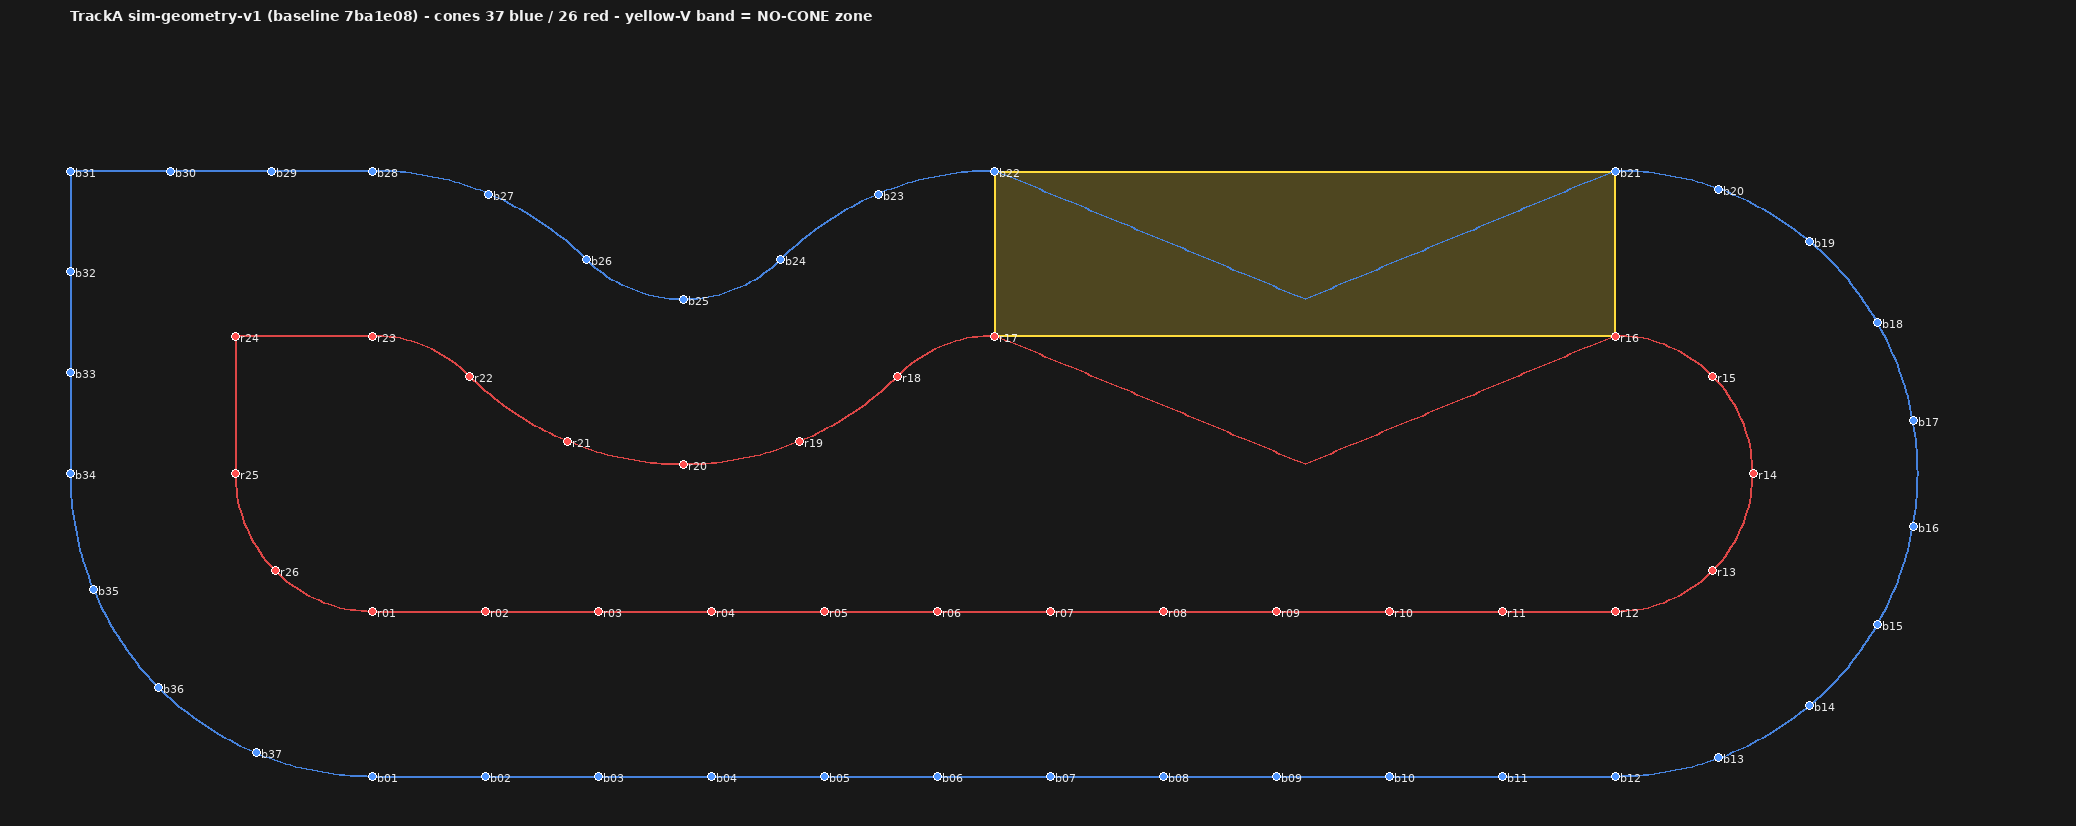
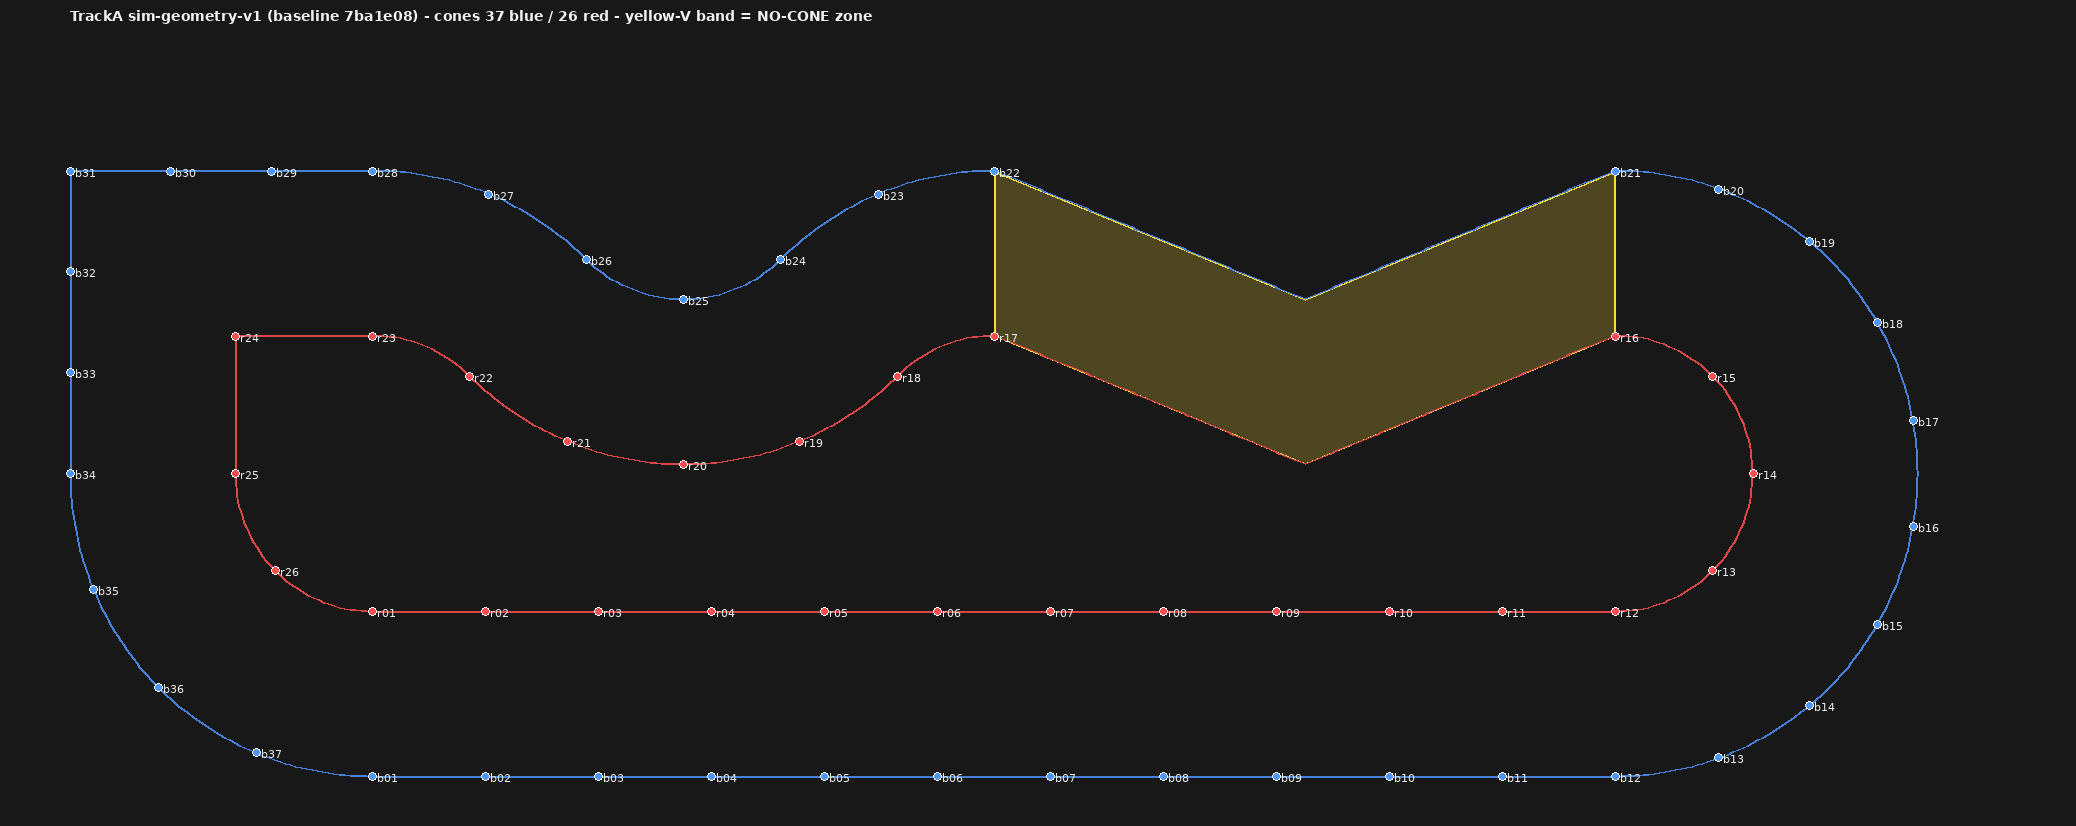
track: 黄V polygon 六点化+负例定向断言(外部AI审查两处修正)
1. polygon 修正(YAML+俯视图两处输出):
   - 首版误写四肩点矩形,漏两谷点;现按六点闭合带:
     外左肩→外谷→外右肩→内右肩→内谷→内左肩
   - 不重新拟合几何,坐标仍出自冻结基线(beefd6d)
2. 检查器新增 5b "yellow-V polygon matches arms":
   - 点数=6;与 shoulders/valley 字段 1e-6 对账;
     外/内三点各贴重建的 E3∪E4 / I3∪I4 臂线(≤0.02m)
   - 三重自证:四点矩形被抓;仅 polygon 错 0.1m 双判据命中;
     polygon+字段+E3 全同错由环自检接缝兜底抓出
3. 负例从"总失败数>0"改定向断言:
   - N1 须 "yellow-V no-cone zone clean" FAIL(几何判据 inside V-band)
   - N2 须 "no duplicate positions" FAIL
   - Rep 增加 failed_names;run_checks 返回 (fails, failed_names)
4. 复跑全链路:63锥不变,正常检查 FAIL=0,两负例 CAUGHT,exit 0

Changed region(s): [[0.4933, 0.1816, 0.7707, 0.3632], [0.4624, 0.3935, 0.7707, 0.5751]]

diff --git a/tools/trackA/check_trackA.py b/tools/trackA/check_trackA.py
@@ -15,6 +15,9 @@
      (锥确在其声明段上,≤ 0.02 m)
   5. 禁放区(黄V):segment ∈ {E3,E4,I3,I4} → FAIL;锥落在黄V臂线上
      (非四肩点)→ FAIL;锥位于黄V带内部(两臂之间,离臂 > 0.03 m)→ FAIL
+  5b. 黄V polygon:必须六点(外左肩→外谷→外右肩→内右肩→内谷→内左肩),
+     与 shoulders/valley 字段 1e-6 对账,外/内三点各贴重建的 E3∪E4/I3∪I4
+     臂线(≤0.02 m)——防四点矩形漏谷点(首版 bug)及字段系统性同错
   6. 肩点归属:四肩点各有一锥且 segment 归属相邻圆弧段(YAML shoulders 表)
   7. YAML-CSV 一致性(数量/id/坐标 1e-6/颜色/segment 全对账)
   8. 几何环自检(从 YAML 重建):20 接缝 gap(含环回绕)、有向切角(>170°
@@ -23,10 +26,10 @@
   9. 间距统计:同色相邻锥(文件序=环序,黄V断口对单独列出)实际间距
      min/max/mean;<0.3 或 >2.0 视为异常 FAIL
 
---negtest:两个针对性负例,必须都被抓住:
-  N1 黄V中段插一个锥(谷中点,segment 标 E3)→ 应 FAIL
-  N2 复制一个已有锥的坐标(新 id)→ 应 FAIL
-任何 FAIL 非零退出;负例未被抓住也非零退出。
+--negtest:两个针对性负例,定向断言对应检查项失败(仅总数>0不算抓住):
+  N1 黄V中段插一个锥(谷中点,segment 标 E2)→ "yellow-V no-cone zone clean" 须 FAIL
+  N2 复制一个已有锥的坐标(新 id)→ "no duplicate positions" 须 FAIL
+任何 FAIL 非零退出;负例未被抓住或抓错了检查项也非零退出。
 """
 import argparse
 import csv
@@ -47,10 +50,12 @@ BAND_MARGIN = 0.03 # 带内判定离臂余量
 class Rep:
     def __init__(self):
         self.fails = 0
+        self.failed_names = set()   # 失败检查项名集合(负例定向断言用)
     def add(self, name, ok, detail=""):
         tag = "OK  " if ok else "FAIL"
         if not ok:
             self.fails += 1
+            self.failed_names.add(name)
         print("  [%s] %-34s %s" % (tag, name, detail))
         return ok
 
@@ -252,6 +257,37 @@ def run_checks(csv_path, yaml_path, label=""):
                 zone_bad.append("%s inside V-band (%.3f,%.3f)" % (c["id"], p[0], p[1]))
     rep.add("yellow-V no-cone zone clean", not zone_bad, "; ".join(zone_bad[:4]))
 
+    # 5b 黄V polygon 与四条臂一致(首版四点矩形漏谷点 bug 的回归检查)
+    # 六点序:外左肩→外谷→外右肩→内右肩→内谷→内左肩(闭合)。
+    # 三重判据:点数=6;与 shoulders/valley 字段 1e-6 对账(字段间自洽);
+    # 外/内三点各自贴从 boundaries 独立重建的 E3∪E4 / I3∪I4 臂线(≤TOL_ON,
+    # 抓"polygon 与 shoulders 一起错"的系统性偏移——字段对账抓不住这种情况)
+    print("-- 5b) yellow-V polygon 六点与四条臂/肩谷字段一致")
+    poly_bad = []
+    poly = band.get("polygon") or []
+    if len(poly) != 6:
+        poly_bad.append("polygon has %d pts, expect 6 "
+                        "(外左肩→外谷→外右肩→内右肩→内谷→内左肩)" % len(poly))
+    else:
+        pts6 = [tuple(p) for p in poly]
+        for nm, got, ref in (("外左肩=E5肩", pts6[0], shs.get("E5")),
+                             ("外谷=valley_outer", pts6[1], vo),
+                             ("外右肩=E2肩", pts6[2], shs.get("E2")),
+                             ("内右肩=I2肩", pts6[3], shs.get("I2")),
+                             ("内谷=valley_inner", pts6[4], vi),
+                             ("内左肩=I5肩", pts6[5], shs.get("I5"))):
+            if ref is None or hypot(got[0]-ref[0], got[1]-ref[1]) > 1e-6:
+                poly_bad.append("%s: polygon %s != field %s" % (nm, got, ref))
+        arms_o = [segmap["blue"][s] for s in ("E3", "E4")]
+        arms_i = [segmap["red"][s] for s in ("I3", "I4")]
+        for nm, p, arms in (("外左肩", pts6[0], arms_o), ("外谷", pts6[1], arms_o),
+                            ("外右肩", pts6[2], arms_o), ("内右肩", pts6[3], arms_i),
+                            ("内谷", pts6[4], arms_i), ("内左肩", pts6[5], arms_i)):
+            dmin = min(dist_pt_polyline(p, pl) for pl in arms)
+            if dmin > TOL_ON:
+                poly_bad.append("%s off arm %.6f m" % (nm, dmin))
+    rep.add("yellow-V polygon matches arms", not poly_bad, "; ".join(poly_bad[:4]))
+
     # 6 肩点归属
     print("-- 6) 肩点锥归属相邻圆弧段")
     sho_bad = []
@@ -351,7 +387,7 @@ def run_checks(csv_path, yaml_path, label=""):
                 "; ".join(vbreak) if vbreak else "missing?")
 
     print("--\nTOTAL FAIL(s): %d" % rep.fails)
-    return rep.fails
+    return rep.fails, rep.failed_names
 
 # ---------- 负例 ----------
 def negtest(csv_path, yaml_path):
@@ -362,22 +398,29 @@ def negtest(csv_path, yaml_path):
     tmpdir = tempfile.mkdtemp(prefix="trackA_neg_")
     misses = 0
     # N1: 黄V中段(谷中点,两臂之间)插锥——段标注故意给非黄V段 E2,
-    # 迫使"带内部"纯几何判据(而非仅段标注自曝)参与抓捕
+    # 迫使"带内部"纯几何判据(而非仅段标注自曝)参与抓捕。
+    # 定向断言:必须恰是"禁放区"检查项失败(仅靠别项失败凑数不算抓住)
     p1 = os.path.join(tmpdir, "neg1.csv")
     with open(p1, 'w', encoding='utf-8', newline='') as f:
         f.write("\n".join([hdr]+body+["bx01,blue,11.228427,3.581266,E2"])+"\n")
-    f1 = run_checks(p1, yaml_path, label="NEG-1 cone in yellow-V middle")
-    print("  NEG-1 %s (fails=%d)\n" % ("CAUGHT" if f1 > 0 else "MISSED!!", f1))
-    misses += (1 if f1 == 0 else 0)
-    # N2: 复制已有锥坐标(取第一个蓝锥),新 id
+    f1, n1 = run_checks(p1, yaml_path, label="NEG-1 cone in yellow-V middle")
+    caught1 = f1 > 0 and "yellow-V no-cone zone clean" in n1
+    print("  NEG-1 %s (fails=%d, 'yellow-V no-cone zone clean' failed: %s)\n" %
+          ("CAUGHT" if caught1 else "MISSED!!", f1,
+           "yes" if "yellow-V no-cone zone clean" in n1 else "no"))
+    misses += (1 if not caught1 else 0)
+    # N2: 复制已有锥坐标(取第一个蓝锥),新 id。定向断言:"重复位置"检查项失败
     first = body[0].split(',')
     p2 = os.path.join(tmpdir, "neg2.csv")
     with open(p2, 'w', encoding='utf-8', newline='') as f:
         f.write("\n".join([hdr] + body +
                           ["bx02,%s,%s,%s,%s" % (first[1], first[2], first[3], first[4])]) + "\n")
-    f2 = run_checks(p2, yaml_path, label="NEG-2 duplicated cone coords")
-    print("  NEG-2 %s (fails=%d)\n" % ("CAUGHT" if f2 > 0 else "MISSED!!", f2))
-    misses += (1 if f2 == 0 else 0)
+    f2, n2 = run_checks(p2, yaml_path, label="NEG-2 duplicated cone coords")
+    caught2 = f2 > 0 and "no duplicate positions" in n2
+    print("  NEG-2 %s (fails=%d, 'no duplicate positions' failed: %s)\n" %
+          ("CAUGHT" if caught2 else "MISSED!!", f2,
+           "yes" if "no duplicate positions" in n2 else "no"))
+    misses += (1 if not caught2 else 0)
     return misses
 
 def main():
@@ -391,7 +434,7 @@ def main():
     docs = os.path.normpath(os.path.join(here, '..', '..', 'docs', 'track'))
     csv_path = a.csv or os.path.join(docs, "trackA_cones.csv")
     yaml_path = a.yaml or os.path.join(docs, "trackA_layout.yaml")
-    fails = run_checks(csv_path, yaml_path)
+    fails, _names = run_checks(csv_path, yaml_path)
     extra = 0
     if a.negtest:
         extra = negtest(csv_path, yaml_path)

diff --git a/tools/trackA/trackA_geometry.py b/tools/trackA/trackA_geometry.py
@@ -242,7 +242,10 @@ def write_yaml(path, cones, spacing):
                 y.append("    - {seg: %s, arc: {center: [%.6f, %.6f], radius: %.6f, "
                          "angles_deg: [%g, %g], ccw: %s}}" % (name, c[0], c[1], R, d0, d1, ccw))
     y.append("yellow_v_band:  # 禁放区(黄V中段不放锥桶)")
-    y.append("  polygon: [%s, %s, %s, %s]" % (P(SH_L_O), P(SH_R_O), P(SH_R_I), P(SH_L_I)))
+    # 六点带:外左肩→外谷→外右肩→内右肩→内谷→内左肩(闭合)。
+    # 首版误写四肩点矩形,漏两谷点,下游直接消费 polygon 会得到错误区域(已修)。
+    y.append("  polygon: [%s, %s, %s, %s, %s, %s]" %
+             (P(SH_L_O), P(VAL_O), P(SH_R_O), P(SH_R_I), P(VAL_I), P(SH_L_I)))
     y.append("  no_cone_segments: [E3, E4, I3, I4]")
     y.append("  shoulders: {E2: %s, E5: %s, I2: %s, I5: %s}" %
              (P(SH_R_O), P(SH_L_O), P(SH_R_I), P(SH_L_I)))
@@ -288,8 +291,8 @@ def write_topview(path, cones):
         fs = fb = ImageFont.load_default()
     def P(x, y):
         return (mx + x*S, H - my - y*S)
-    # yellow-V no-cone band
-    band = [P(*SH_L_O), P(*SH_R_O), P(*SH_R_I), P(*SH_L_I)]
+    # yellow-V no-cone band(六点带,与 YAML polygon 同序:外左肩→外谷→外右肩→内右肩→内谷→内左肩)
+    band = [P(*SH_L_O), P(*VAL_O), P(*SH_R_O), P(*SH_R_I), P(*VAL_I), P(*SH_L_I)]
     ov = Image.new("RGBA", im.size, (0, 0, 0, 0))
     od = ImageDraw.Draw(ov)
     od.polygon(band, fill=(255, 220, 60, 60))
